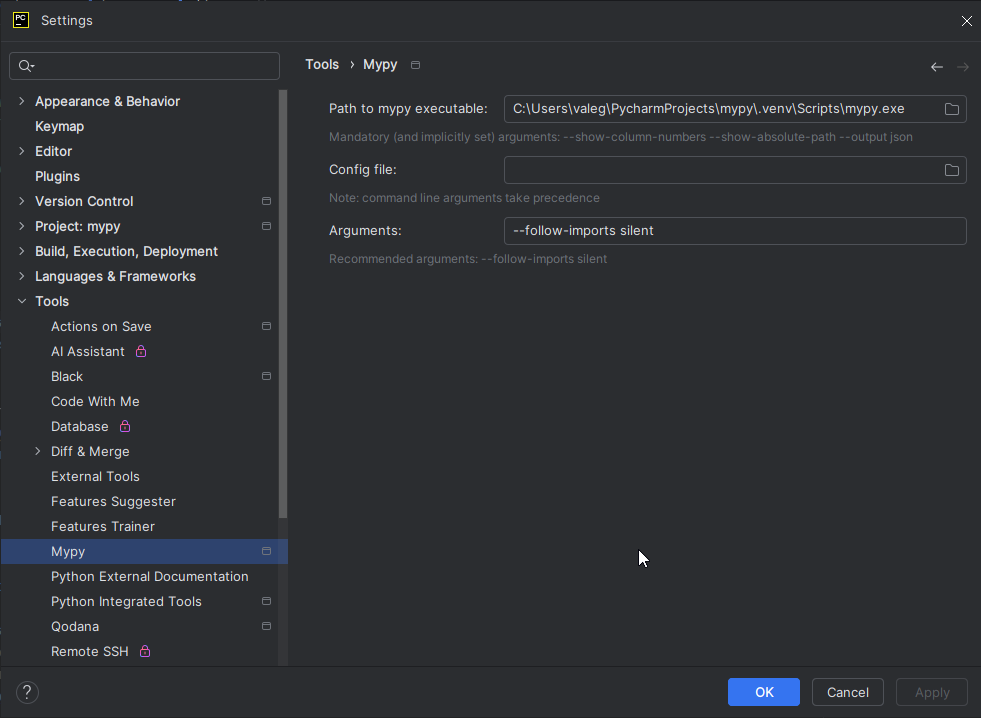
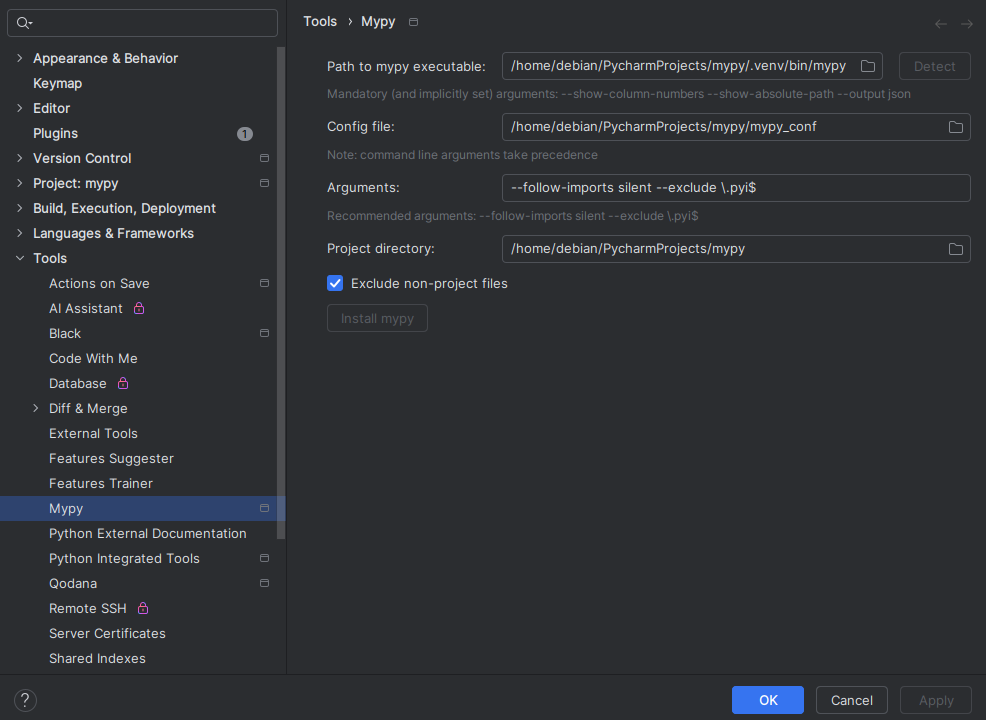
Release v1.0.10 (#43)
* add install and detect buttons to mypy settings
* fix executable path field to fill empty space
* mypy settings: make validation error prevent user from saving the form
* mypy settings: installing mypy to automatically fill path to executable with autodetect result, if it is empty
* update readme pictures
* update readme
* bump version

diff --git a/src/main/kotlin/works/szabope/plugins/mypy/configurable/MypySettingConfigurable.kt b/src/main/kotlin/works/szabope/plugins/mypy/configurable/MypySettingConfigurable.kt
@@ -1,7 +1,14 @@
 package works.szabope.plugins.mypy.configurable
 
 import com.intellij.grazie.utils.trimToNull
+import com.intellij.ide.DataManager
+import com.intellij.openapi.actionSystem.ActionManager
+import com.intellij.openapi.actionSystem.ActionPlaces
+import com.intellij.openapi.actionSystem.ActionUiKind
+import com.intellij.openapi.actionSystem.AnActionEvent
+import com.intellij.openapi.actionSystem.ex.ActionUtil
 import com.intellij.openapi.fileChooser.FileChooserDescriptor
+import com.intellij.openapi.observable.properties.AtomicBooleanProperty
 import com.intellij.openapi.options.BoundSearchableConfigurable
 import com.intellij.openapi.options.Configurable
 import com.intellij.openapi.project.Project
@@ -9,12 +16,18 @@ import com.intellij.openapi.ui.DialogPanel
 import com.intellij.openapi.util.Condition
 import com.intellij.openapi.util.SystemInfo
 import com.intellij.openapi.vfs.VirtualFile
+import com.intellij.platform.ide.progress.runWithModalProgressBlocking
+import com.intellij.ui.components.textFieldWithBrowseButton
 import com.intellij.ui.dsl.builder.*
+import com.intellij.ui.layout.ComponentPredicate
 import org.jetbrains.annotations.ApiStatus
 import works.szabope.plugins.mypy.MyBundle
 import works.szabope.plugins.mypy.MypyArgs
+import works.szabope.plugins.mypy.services.MypyPackageUtil
 import works.szabope.plugins.mypy.services.MypySettings
+import javax.swing.JButton
 
+//TODO: on configuration becoming complete, make notification disappear if any
 internal class MypySettingConfigurable(private val project: Project) : BoundSearchableConfigurable(
     MyBundle.message("mypy.configurable.name"), MyBundle.message("mypy.configurable.name"), _id = ID
 ), Configurable.NoScroll {
@@ -36,13 +49,14 @@ internal class MypySettingConfigurable(private val project: Project) : BoundSear
     private val directoryChooserDescriptor = FileChooserDescriptor(false, true, false, false, false, false)
 
     override fun createPanel(): DialogPanel {
+        val pathToExecutableComponent =
+            textFieldWithBrowseButton(project = project, fileChooserDescriptor = mypyExecutableChooserDescriptor)
         return panel {
             indent {
                 row {
                     label(MyBundle.message("mypy.settings.path_to_executable.label"))
-                    textFieldWithBrowseButton(
-                        project = project, fileChooserDescriptor = mypyExecutableChooserDescriptor
-                    ).align(Align.FILL).bindText(
+                    val pathToExecutableField = cell(pathToExecutableComponent)
+                    pathToExecutableField.align(Align.FILL).bindText(
                         getter = { settings.mypyExecutable.orEmpty() },
                         setter = { settings.mypyExecutable = it.trimToNull() },
                     ).validationOnInput { field ->
@@ -50,11 +64,26 @@ internal class MypySettingConfigurable(private val project: Project) : BoundSear
                             val message = MyBundle.message("mypy.settings.path_to_executable.empty_warning")
                             return@validationOnInput warning(message)
                         }
-                        settings.validateExecutable(field.text.trimToNull())?.also {
-                            return@validationOnInput error(it.message)
+                        null
+                    }.validationOnApply {
+                        settings.validateExecutable(pathToExecutableComponent.text.trimToNull())?.also {
+                            return@validationOnApply error(it.message)
                         }
                         null
-                    }
+                    }.resizableColumn()
+                    button(MyBundle.message("mypy.settings.autodetect.label")) {
+                        runWithModalProgressBlocking(
+                            project, MyBundle.message("mypy.settings.autodetect.in_progress")
+                        ) {
+                            pathToExecutableComponent.text = settings.autodetectExecutable() ?: ""
+                        }
+                    }.enabledIf(object : ComponentPredicate() {
+                        override fun invoke() = pathToExecutableComponent.text.isBlank()
+
+                        override fun addListener(listener: (Boolean) -> Unit) {
+                            pathToExecutableField.onChanged { listener(it.text.isBlank()) }
+                        }
+                    }).align(AlignX.RIGHT + AlignY.CENTER)
                 }.rowComment(
                     MyBundle.message(
                         "mypy.settings.path_to_executable.comment", MypyArgs.MYPY_MANDATORY_COMMAND_ARGS
@@ -65,9 +94,9 @@ internal class MypySettingConfigurable(private val project: Project) : BoundSear
                     textFieldWithBrowseButton(project = project).align(Align.FILL).bindText(
                         getter = { settings.configFilePath.orEmpty() },
                         setter = { settings.configFilePath = it.trimToNull() },
-                    ).validationOnInput { field ->
+                    ).validationOnApply { field ->
                         settings.validateConfigFile(field.text.trimToNull())?.also {
-                            return@validationOnInput error(it.message)
+                            return@validationOnApply error(it.message)
                         }
                         null
                     }
@@ -87,9 +116,10 @@ internal class MypySettingConfigurable(private val project: Project) : BoundSear
                 ).layout(RowLayout.PARENT_GRID)
                 row {
                     label(MyBundle.message("mypy.settings.project_directory.label"))
-                    textFieldWithBrowseButton(
+                    val projectDirectoryField = textFieldWithBrowseButton(
                         project = project, fileChooserDescriptor = directoryChooserDescriptor
-                    ).align(Align.FILL).bindText(
+                    )
+                    projectDirectoryField.align(Align.FILL).bindText(
                         getter = { settings.projectDirectory.orEmpty() },
                         setter = { settings.projectDirectory = it.trimToNull() },
                     ).validationOnInput { field ->
@@ -97,18 +127,50 @@ internal class MypySettingConfigurable(private val project: Project) : BoundSear
                             val message = MyBundle.message("mypy.settings.path_to_project_directory.empty_warning")
                             return@validationOnInput warning(message)
                         }
-                        settings.validateProjectDirectory(field.text.trimToNull())?.also {
-                            return@validationOnInput error(it.message)
+                        null
+                    }.validationOnApply {
+                        settings.validateProjectDirectory(projectDirectoryField.component.text.trimToNull())?.also {
+                            return@validationOnApply error(it.message)
                         }
                         null
                     }
-                }
+                }.layout(RowLayout.PARENT_GRID)
                 row {
-                    checkBox("Exclude non-project files").bindSelected(
+                    checkBox(MyBundle.message("mypy.settings.exclude_non_project_files.label")).bindSelected(
                         getter = { settings.isExcludeNonProjectFiles },
                         setter = { settings.isExcludeNonProjectFiles = it })
                 }.layout(RowLayout.PARENT_GRID)
+                row {
+                    val buttonClicked = AtomicBooleanProperty(false)
+                    val action = ActionManager.getInstance().getAction("InstallMypyAction")
+                    lateinit var result: Cell<JButton>
+                    result = button(MyBundle.message("mypy.intention.install_mypy.text")) {
+                        val dataContext = DataManager.getInstance().getDataContext(result.component)
+                        val event = AnActionEvent.createEvent(
+                            action, dataContext, null, ActionPlaces.UNKNOWN, ActionUiKind.NONE, null
+                        )
+                        ActionUtil.invokeAction(action, event) {
+                            buttonClicked.set(false)
+                            if (pathToExecutableComponent.text.isBlank()) {
+                                runWithModalProgressBlocking(
+                                    project, MyBundle.message("mypy.settings.autodetect.in_progress")
+                                ) {
+                                    pathToExecutableComponent.text = settings.autodetectExecutable() ?: ""
+                                }
+                            }
+                        }
+                    }.enabledIf(object : ComponentPredicate() {
+                        override fun invoke() = !buttonClicked.get() && MypyPackageUtil.canInstall(project)
+                        override fun addListener(listener: (Boolean) -> Unit) = buttonClicked.afterChange(listener)
+                    })
+                }.layout(RowLayout.PARENT_GRID)
             }
+        }
+    }
+
+    override fun apply() {
+        if ((createComponent() as DialogPanel).validateAll().isEmpty()) {
+            super.apply()
         }
     }
 

diff --git a/src/main/kotlin/works/szabope/plugins/mypy/actions/InstallMypyAction.kt b/src/main/kotlin/works/szabope/plugins/mypy/actions/InstallMypyAction.kt
@@ -9,10 +9,8 @@ import com.intellij.openapi.project.DumbAwareAction
 import com.intellij.openapi.ui.MessageType
 import com.intellij.openapi.wm.ToolWindowManager
 import com.intellij.platform.ide.progress.runWithModalProgressBlocking
-import com.intellij.webcore.packaging.PackageManagementService
 import com.jetbrains.python.packaging.ui.PyPackageManagementService.PyPackageInstallationErrorDescription
 import kotlinx.coroutines.Dispatchers
-import kotlinx.coroutines.future.await
 import kotlinx.coroutines.withContext
 import works.szabope.plugins.mypy.MyBundle
 import works.szabope.plugins.mypy.dialog.IDialogManager
@@ -20,16 +18,15 @@ import works.szabope.plugins.mypy.services.MypyPackageUtil
 import works.szabope.plugins.mypy.services.MypySettings
 import works.szabope.plugins.mypy.services.OldMypySettings
 import works.szabope.plugins.mypy.toolWindow.MypyToolWindowPanel
-import java.util.concurrent.CompletableFuture
+
 
 class InstallMypyAction : DumbAwareAction() {
 
     override fun actionPerformed(e: AnActionEvent) {
         val project = e.project ?: return
-        val packageManager = MypyPackageUtil.getPackageManager(project)!!
         runWithModalProgressBlocking(project, MyBundle.message("action.InstallMypyAction.in_progress")) {
             withContext(Dispatchers.EDT) {
-                val errorDescription = install(packageManager)
+                val errorDescription = MypyPackageUtil.install(project)
                 if (errorDescription == null) {
                     @Suppress("DialogTitleCapitalization") ToolWindowManager.getInstance(project).notifyByBalloon(
                         MypyToolWindowPanel.ID, MessageType.INFO, MyBundle.message("action.InstallMypyAction.done_html")
@@ -56,21 +53,5 @@ class InstallMypyAction : DumbAwareAction() {
 
     override fun getActionUpdateThread(): ActionUpdateThread {
         return ActionUpdateThread.BGT
-    }
-
-    private suspend fun install(packageManager: PackageManagementService): PackageManagementService.ErrorDescription? {
-        val result = CompletableFuture<PackageManagementService.ErrorDescription>()
-        val listener = object : PackageManagementService.Listener {
-            override fun operationStarted(packageName: String?) = Unit
-            override fun operationFinished(ignored: String?, error: PackageManagementService.ErrorDescription?) {
-                if (error == null) {
-                    result.complete(null)
-                } else {
-                    result.complete(error)
-                }
-            }
-        }
-        packageManager.installPackage(MypyPackageUtil.getPackage(), null, false, null, listener, false)
-        return result.await()
     }
 }

diff --git a/src/main/kotlin/works/szabope/plugins/mypy/services/MypyPackageUtil.kt b/src/main/kotlin/works/szabope/plugins/mypy/services/MypyPackageUtil.kt
@@ -7,17 +7,17 @@ import com.intellij.webcore.packaging.RepoPackage
 import com.jetbrains.python.packaging.common.PackageManagerHolder
 import com.jetbrains.python.sdk.PythonSdkUtil
 import com.jetbrains.python.sdk.pythonSdk
+import kotlinx.coroutines.future.await
+import java.util.concurrent.CompletableFuture
 
 object MypyPackageUtil {
 
-    private const val PACKAGE_NAME = "mypy"
+    private val PACKAGE = RepoPackage("mypy", null)
 
     fun canInstall(project: Project): Boolean {
         val sdk = project.pythonSdk ?: return false
         return !PythonSdkUtil.isRemote(sdk) && !isInstalled(project)
     }
-
-    fun getPackage() = RepoPackage(PACKAGE_NAME, null)
 
     @Suppress("IncorrectServiceRetrieving")
     fun getPackageManager(project: Project): PackageManagementService? {
@@ -25,6 +25,24 @@ object MypyPackageUtil {
     }
 
     private fun isInstalled(project: Project): Boolean {
-        return getPackageManager(project)?.installedPackagesList?.any { it.name == PACKAGE_NAME } ?: false
+        return getPackageManager(project)?.installedPackagesList?.any { it.name == PACKAGE.name } ?: false
     }
+
+    suspend fun install(project: Project): PackageManagementService.ErrorDescription? {
+        val packageManager = getPackageManager(project)!!
+        val result = CompletableFuture<PackageManagementService.ErrorDescription>()
+        val listener = object : PackageManagementService.Listener {
+            override fun operationStarted(packageName: String?) = Unit
+            override fun operationFinished(ignored: String?, error: PackageManagementService.ErrorDescription?) {
+                if (error == null) {
+                    result.complete(null)
+                } else {
+                    result.complete(error)
+                }
+            }
+        }
+        packageManager.installPackage(PACKAGE, null, false, null, listener, false)
+        return result.await()
+    }
+
 }

diff --git a/src/main/kotlin/works/szabope/plugins/mypy/services/MypySettings.kt b/src/main/kotlin/works/szabope/plugins/mypy/services/MypySettings.kt
@@ -130,7 +130,7 @@ class MypySettings(internal val project: Project) :
 
     suspend fun initSettings(defaultExecutable: String?, defaultConfigFile: String?, defaultArguments: String?) {
         if (mypyExecutable == null) {
-            mypyExecutable = defaultExecutable ?: autodetectExecutable(project)
+            mypyExecutable = defaultExecutable ?: autodetectExecutable()
         }
         if (configFilePath == null) {
             configFilePath = defaultConfigFile
@@ -216,7 +216,7 @@ class MypySettings(internal val project: Project) :
         return null
     }
 
-    private suspend fun autodetectExecutable(project: Project): String? {
+    suspend fun autodetectExecutable(): String? {
         val locateCommand = if (SystemInfo.isWindows) "where.exe mypy.exe" else "which mypy"
         val stdout = StringBuilder()
         val processResult = PythonEnvironmentAwareCli(project).execute(locateCommand) { it.collect(stdout::appendLine) }

diff --git a/README.md b/README.md
@@ -10,8 +10,14 @@ It is the rework of [Roberto Leinardi](https://github.com/szabope/mypy-pycharm-p
 >
 >Type checkers help ensure that you're using variables and functions in your code correctly. With mypy, add type hints (PEP 484) to your Python programs, and mypy will warn you when you use those types incorrectly.
 
-![low_res_mypy plugin screenshot](https://raw.githubusercontent.com/szabope/mypy-pycharm-plugin/146a7eaccf3ad32a127dbdcef7bf4042e943411a/art/results_lowres.png)
+![low_res_mypy plugin screenshot](https://raw.githubusercontent.com/szabope/mypy-pycharm-plugin/3b600281f84ecec09d345ec7541c39c6b705ddff/art/results_lowres.png)
 <!-- Plugin description end -->
+
+## Requirements
+- mypy >= 1.11.0
+- mypy must be executable by the IDE. *e.g. mypy in WSL won't work with IDE running on Windows*
+- mypy does not need to be installed into the project's environment, it can be configured independently
+
 
 ## Installation steps
 https://www.jetbrains.com/help/pycharm/managing-plugins.html#Managing_Plugins.topic
@@ -21,12 +27,14 @@ Configuration is done on a project basis. Regardless of whether it is set up via
 
 ### Automated configuration
 Upon project load, the plugin looks for existing settings for Leinardi's mypy plugin and makes a copy of them. Executable only set if the version of mypy is supported.\
-If such configuration was not found, the plugin tries to detect the executable by running `where mypy.exe` on Windows, `which mypy` otherwise.
+If such configuration was not found, the plugin tries to detect the executable by running `where mypy.exe` on Windows, `which mypy` otherwise.\
+Incomplete configuration triggers a notification (`Install mypy` only shown if applicable):\
+![mypy_plugin_incomplete_configuration_screenshot](https://raw.githubusercontent.com/szabope/mypy-pycharm-plugin/3b600281f84ecec09d345ec7541c39c6b705ddff/art/mypy_not_set.png)
 
 ### Manual configuration
 You can modify settings at [Tools](https://www.jetbrains.com/help/pycharm/settings-tools.html#Settings_Tools.topic) / **Mypy**.
 
-![mypy plugin screenshot](https://raw.githubusercontent.com/szabope/mypy-pycharm-plugin/338908f67473081858a50cf55ecf6e4c37e69fd4/art/settings.png)
+![mypy plugin screenshot](https://raw.githubusercontent.com/szabope/mypy-pycharm-plugin/3b600281f84ecec09d345ec7541c39c6b705ddff/art/settings.png)
 
 ### Inspection severity
 MyPy severity level is set to `Error` by default. You can change this in [inspection settings](https://www.jetbrains.com/help/pycharm/inspections-settings.html#Inspections_Settings.topic).
@@ -44,9 +52,9 @@ Mypy configuration is not retained from the previous run.\
 action is available within MyPy toolwindow. It clears the results and runs mypy for the one file that is open 
 and currently focused in the Editor.
 
-![mypy plugin screenshot](https://raw.githubusercontent.com/szabope/mypy-pycharm-plugin/338908f67473081858a50cf55ecf6e4c37e69fd4/art/menu.png)
+![mypy plugin screenshot](https://raw.githubusercontent.com/szabope/mypy-pycharm-plugin/3b600281f84ecec09d345ec7541c39c6b705ddff/art/menu.png)
 
-![mypy plugin screenshot](https://raw.githubusercontent.com/szabope/mypy-pycharm-plugin/338908f67473081858a50cf55ecf6e4c37e69fd4/art/results.png)
+![mypy plugin screenshot](https://raw.githubusercontent.com/szabope/mypy-pycharm-plugin/3b600281f84ecec09d345ec7541c39c6b705ddff/art/results.png)
 
 ## FAQ
 ### Scan fails with: `External tool failed with error.` or `External tool returned unexpected output.`
